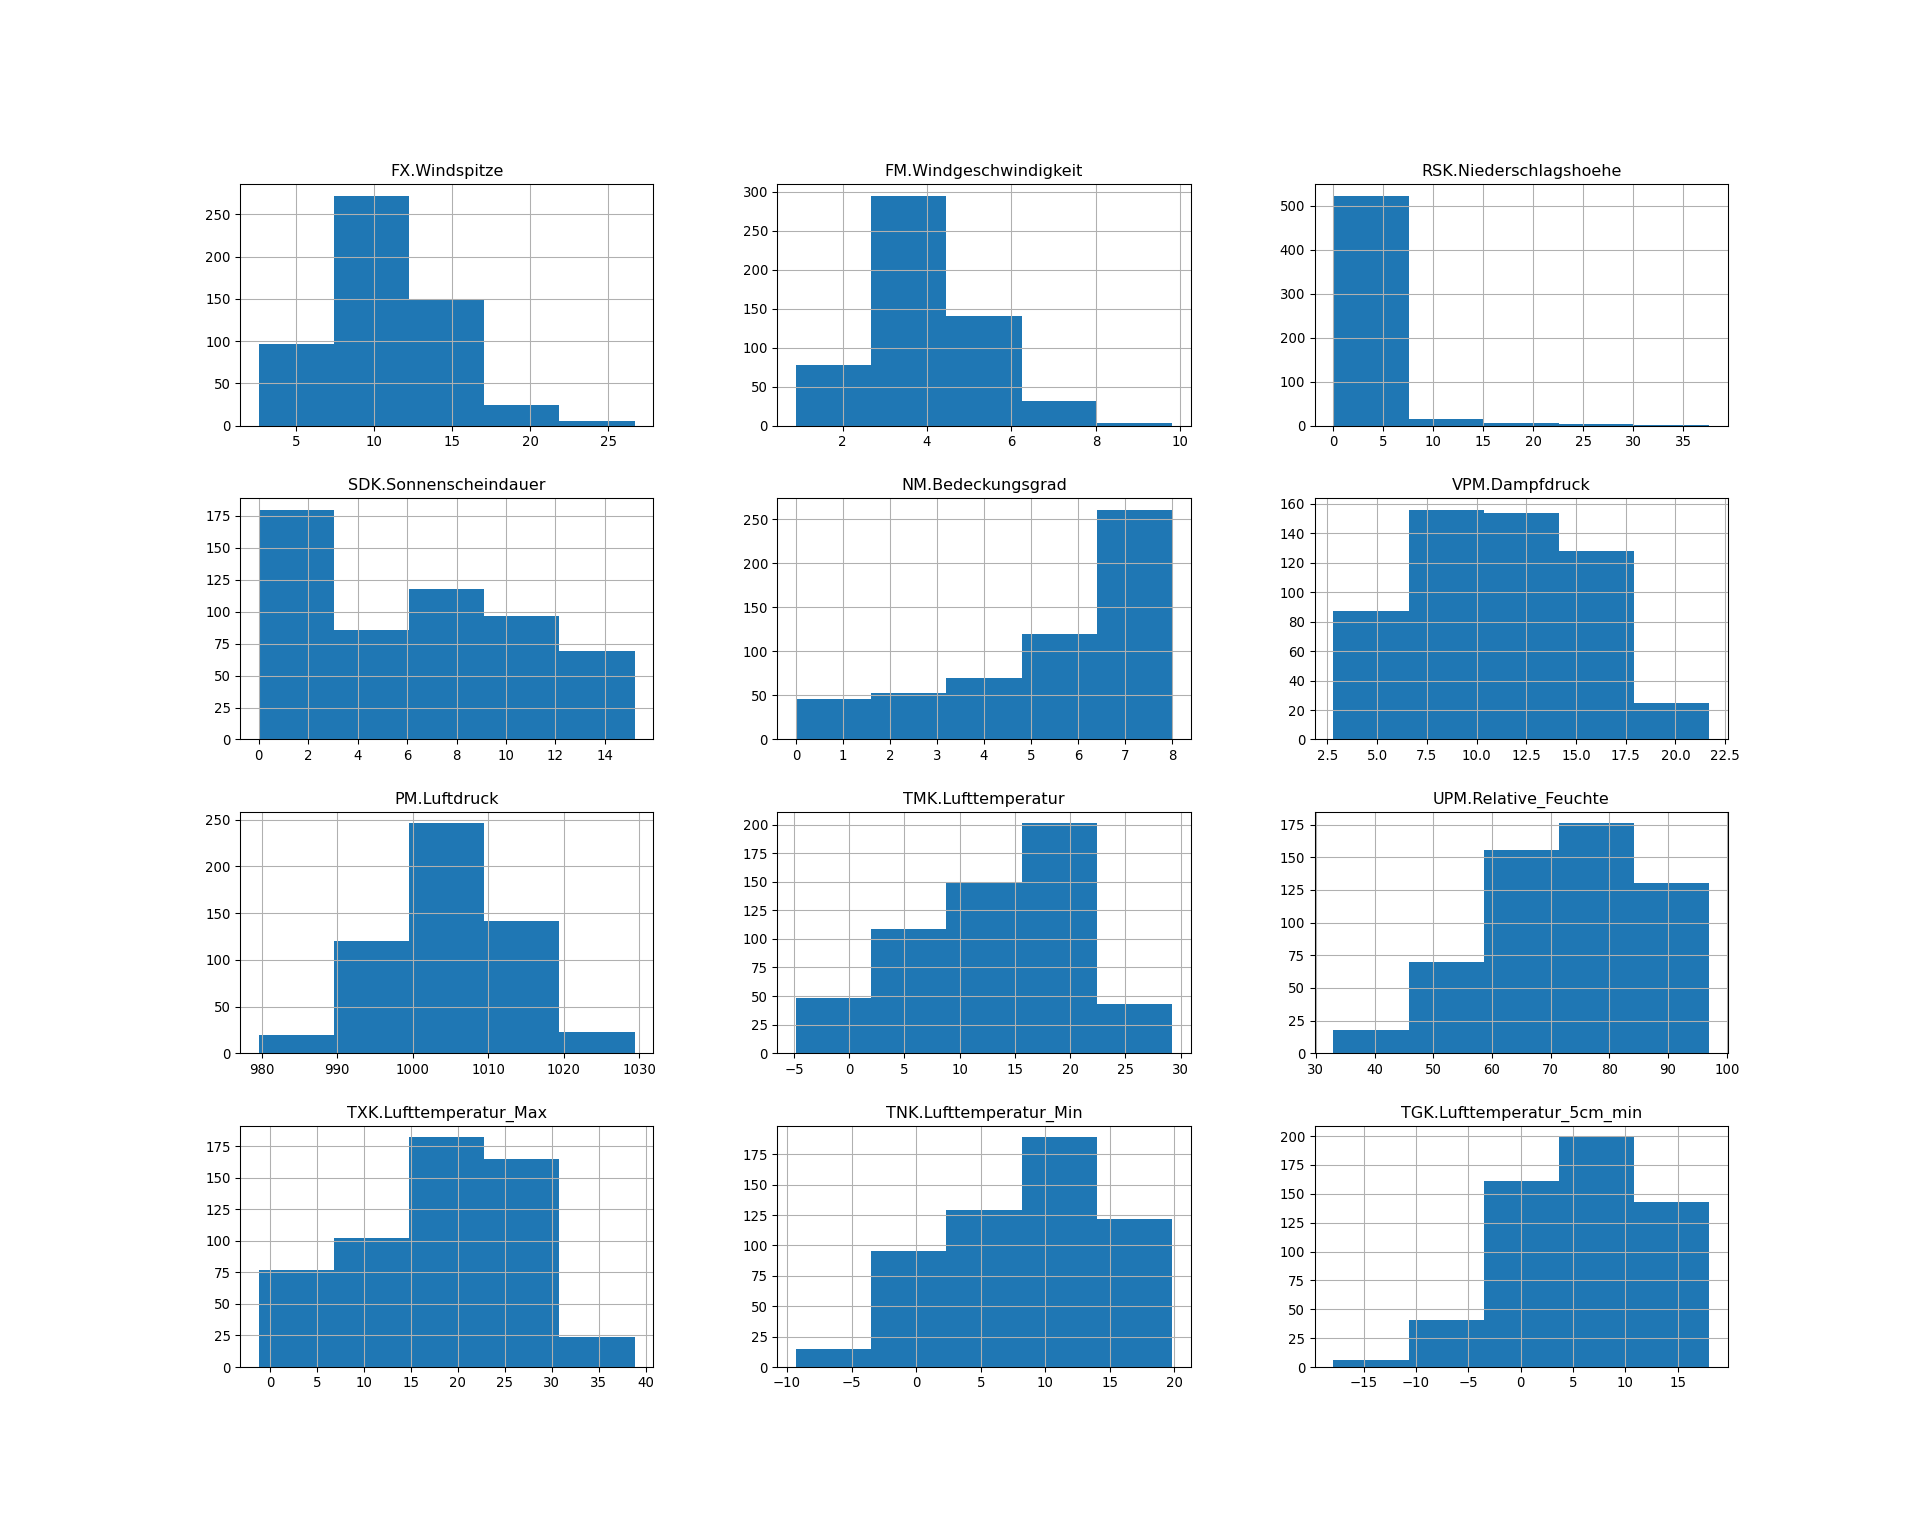
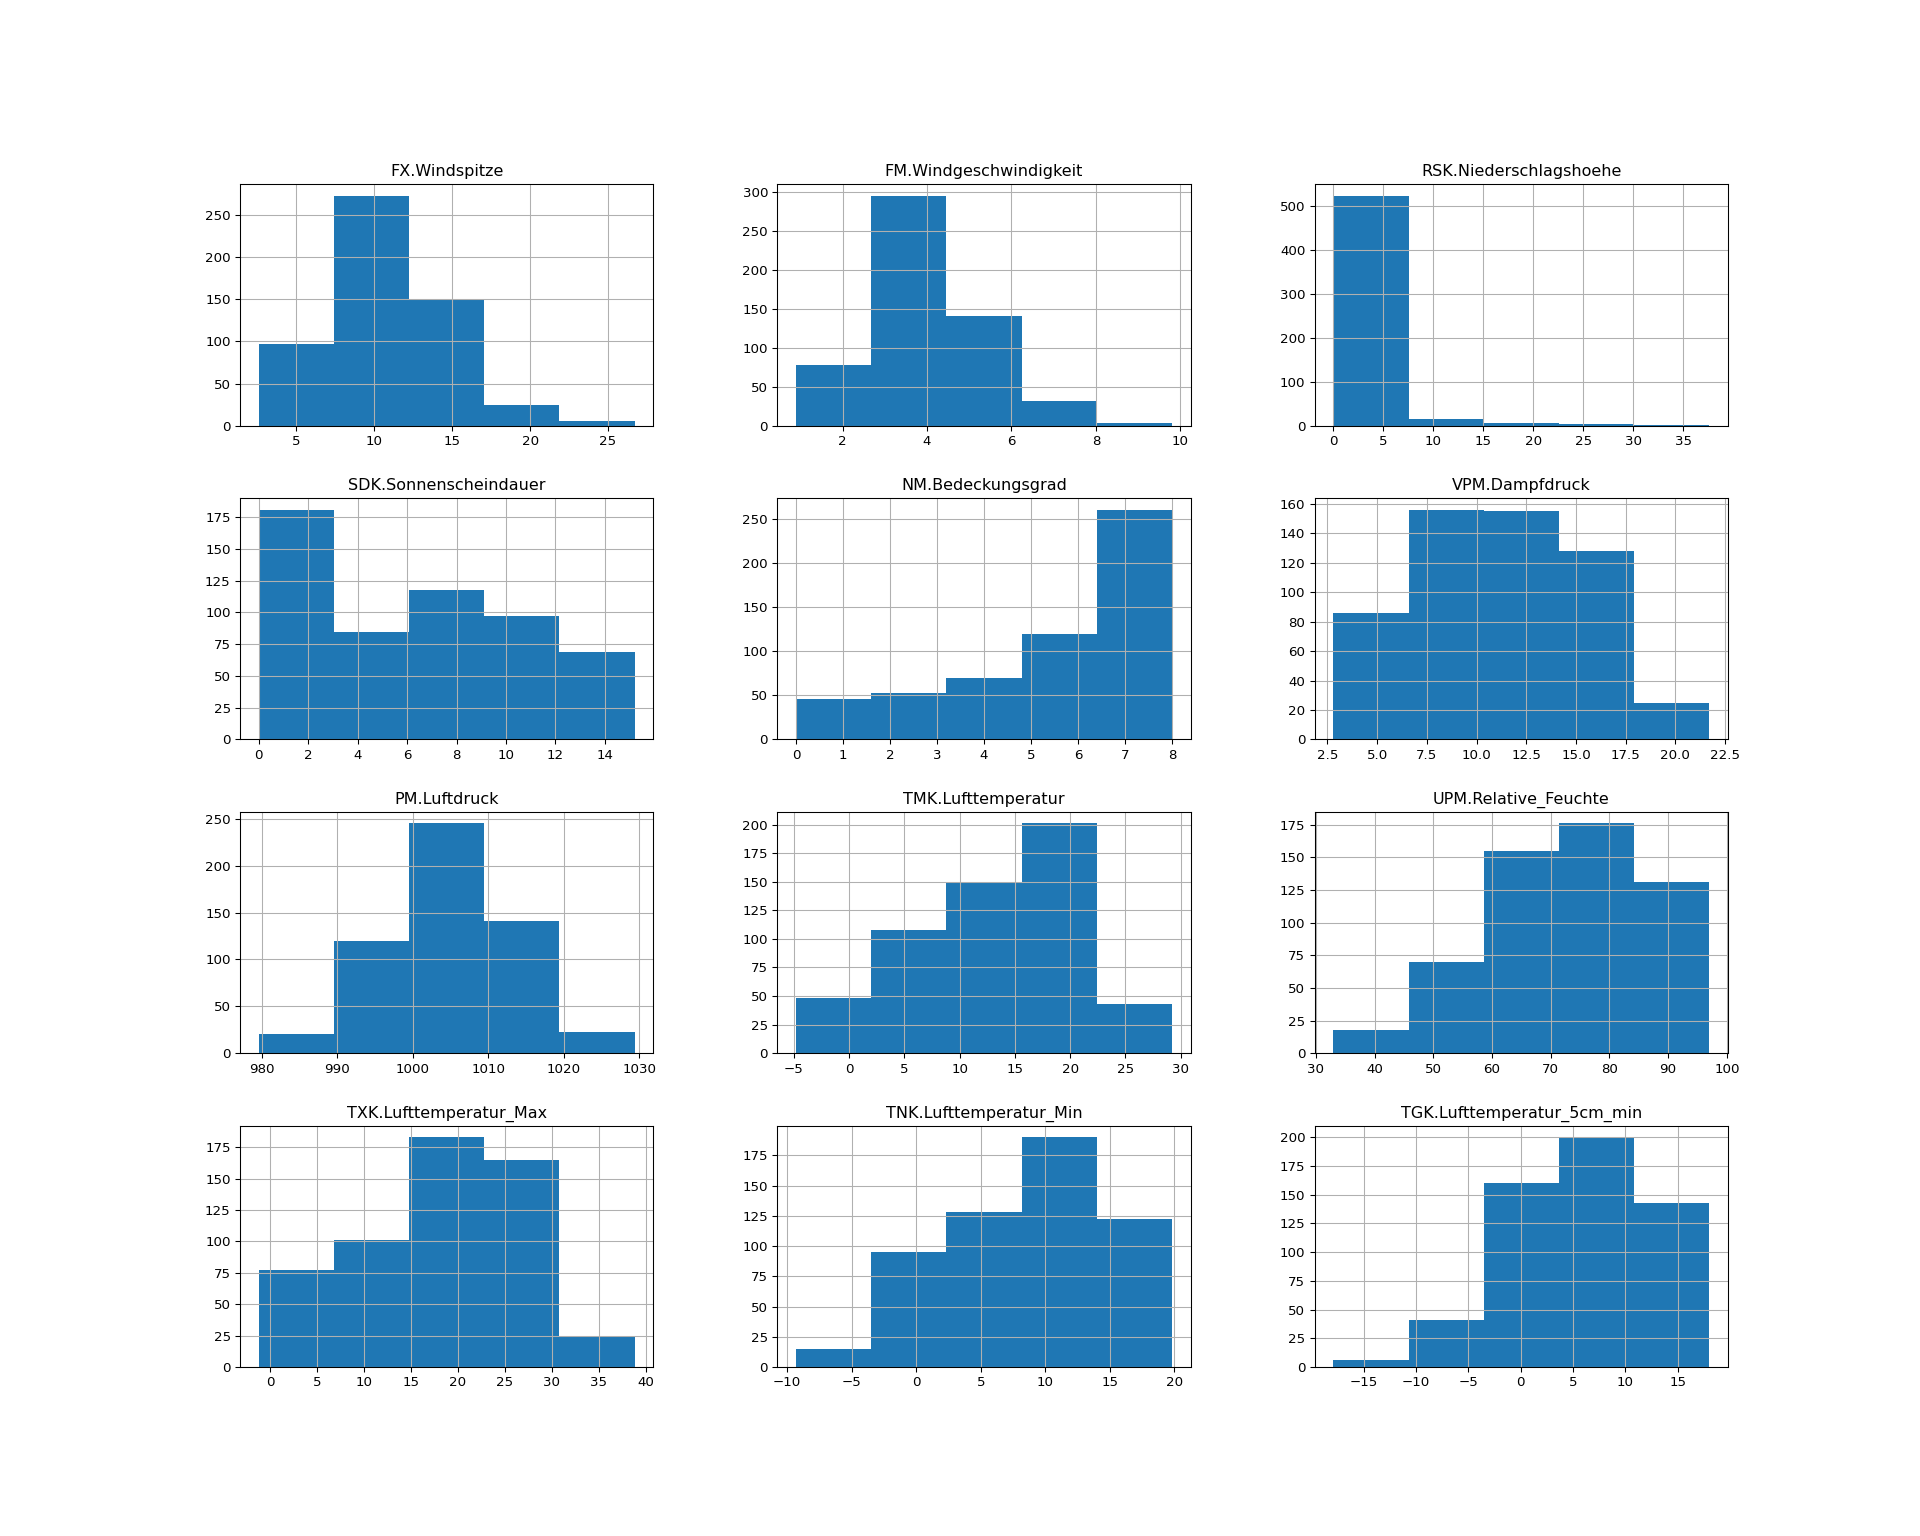
added y-axis-label and changed colour for improved visualisation

Changed region(s): [[0.7812, 0.75, 0.8125, 0.7812], [0.6562, 0.75, 0.6875, 0.7812], [0.5, 0.7812, 0.5312, 0.8125]]

diff --git a/README.md b/README.md
@@ -1,6 +1,6 @@
 # Fundamentals of Programming October 2025
 Berry Boessenkool
-2025-10-23, 11:25
+2025-10-23, 18:49
 
 Hey everyone! Welcome to Fundamentals of Programming 2025/26!  
 This is a github task in the course
@@ -33,7 +33,7 @@ clim <- dataDWD(link, varnames=TRUE, force=24)
 ## Visualise recent temperature
 
 ``` r
-plotDWD(clim, "TMK.Lufttemperatur")
+plotDWD(clim, "TMK.Lufttemperatur", ylab = "mean air temperature (in °C)", col = "darkgreen")
 ```
 
 ![](README_files/figure-commonmark/plot_clim-1.png)
@@ -77,10 +77,10 @@ print(temp_stats)
 ```
 
     count    550.000000
-    mean      12.983818
-    std        7.101887
+    mean      12.994545
+    std        7.096378
     min       -4.800000
-    25%        7.800000
+    25%        7.850000
     50%       14.150000
     75%       18.700000
     max       29.200000
